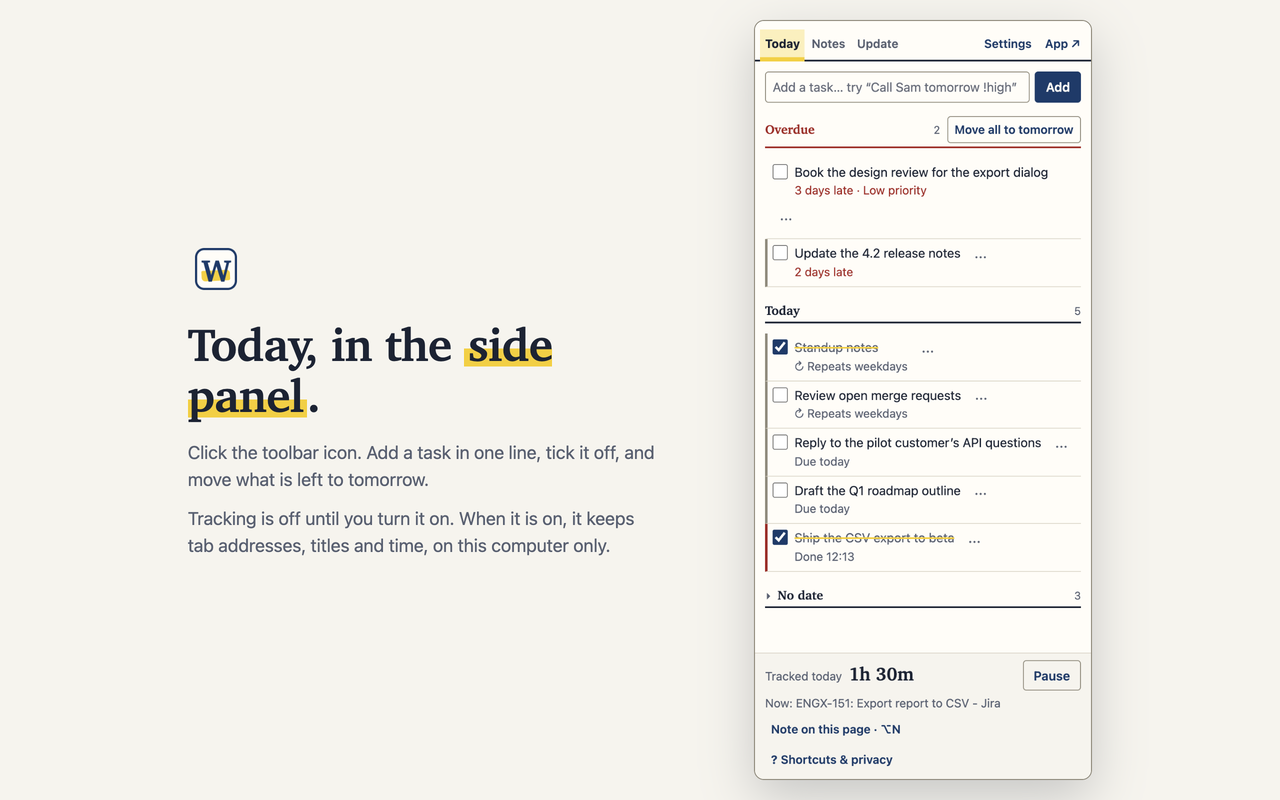
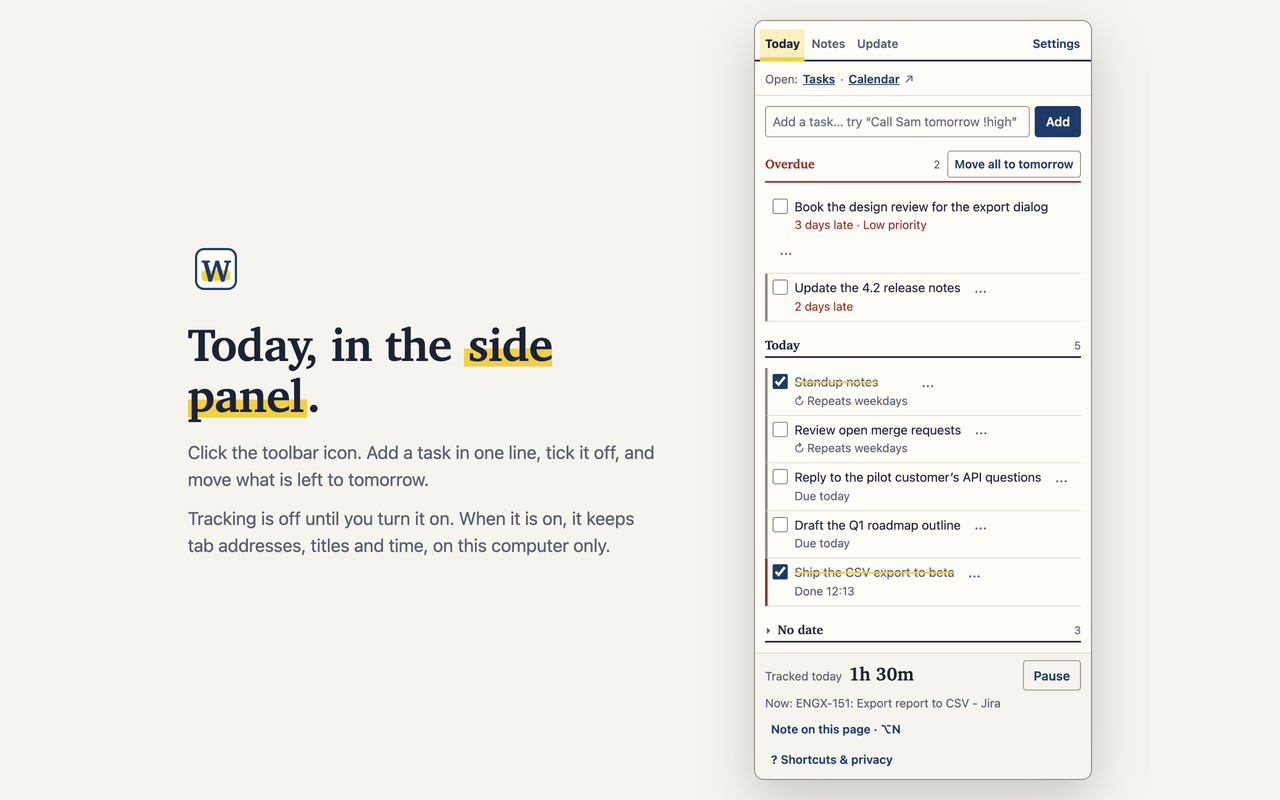
first commit

Changed region(s): [[0.5938, 0.0312, 0.8438, 0.8125]]

diff --git a/store-assets/privacy-policy.html b/store-assets/privacy-policy.html
@@ -24,7 +24,7 @@ a{color:var(--navy)}
 <body><main>
 <p class="kicker">Weekly</p>
 <h1>Privacy <span class="mark">policy</span></h1>
-<p class="meta">Applies to the Weekly Chrome extension, version 3.0.0. Last updated: 1 November 2026.</p>
+<p class="meta">Applies to the Weekly Chrome extension, version 3.0.0. Last updated: 2 November 2026.</p>
 
 <div class="sum"><p><strong>In short:</strong> Weekly keeps your tasks, notes and reminders on your computer. Tracking is off until you turn it on; then Weekly also keeps a log of the address and title of the Chrome tab you are working in, and for how long, for 90 days. We run no servers and receive no data. Anything that leaves your computer does so only because you chose to copy, post, export or look something up.</p></div>
 
@@ -34,8 +34,9 @@ a{color:var(--navy)}
 <li><strong>Notes you write:</strong> title, text, category, and the day a note belongs to, if any.</li>
 <li><strong>Private notes:</strong> if you set a PIN and mark a note private, its title and text are encrypted on your computer before they are stored (its category and the day it belongs to stay readable beside them) (PBKDF2-SHA256 with 310,000 rounds, then AES-GCM). The PIN itself is never stored, only a random salt and a check value. The key exists only in the memory of Weekly's background process. It is dropped when you lock, after 5 minutes without use, or sooner when Chrome stops that process. After 5 wrong PINs Weekly makes you wait, from 30 seconds up to 15 minutes, before the next try.</li>
 <li><strong>Settings:</strong> your role, reminder times and working days, light or dark appearance, sites to ignore, your own rules, and an optional Slack webhook address. Also your saved draft edits, the items you untick, the day each reminder last showed, a random ID that tells exports from different computers apart, and small interface state: which day groups you left open, your answers to the share prompts, and the device IDs of files you imported.</li>
-<li><strong>If you turn tracking on:</strong> the address (URL), page title and time spent for the <strong>active tab of the focused Chrome window</strong>, only while Chrome is in front and you are active, and a per-day count of task switches. Time stops when you go idle (default 2 minutes) or lock your screen.</li>
-<li><strong>If you choose "Fill in from history":</strong> estimated time per page for the last 15 days, built from Chrome's visit history on this computer. History synced from your other devices is skipped.</li>
+<li><strong>If you turn tracking on:</strong> the address (URL), page title and time spent for the <strong>active tab of the focused Chrome window</strong>, only while Chrome is in front and you are active, and a per-day count of task switches. Time stops when you go idle (default 2 minutes) or lock your screen, and if the computer sleeps it stops at the last minute you were active.</li>
+<li><strong>Outside Chrome:</strong> while tracking is on and you are active on your computer but Chrome is not in front (for example in your IDE or the Zoom app), Weekly counts those minutes as one "Outside Chrome" entry per day. Only the number of minutes is stored: Weekly cannot see, and does not record, which app you were using. Turn this off in Settings, under Tracking.</li>
+<li><strong>If you choose "Fill in from history":</strong> estimated time per page for the last 15 days, built from Chrome's visit history on this computer, for time Weekly did not track (days before you installed it, and the hours before tracking began on the day you did). History synced from your other devices is skipped.</li>
 </ul>
 
 <h2>What Weekly never collects</h2>

diff --git a/test/store-assets.test.js b/test/store-assets.test.js
@@ -34,8 +34,8 @@ test('the privacy policy states what Replace, PIN guesses, local storage and the
   assert.doesNotMatch(policy, /Tracked activity, history estimates and activity imported from another computer are deleted/);
 });
 
-test('the privacy policy is dated 1 November 2026, names one contact address and has no em dash', () => {
-  assert.match(policy, /Last updated: 1 November 2026/);
+test('the privacy policy is dated 2 November 2026, names one contact address and has no em dash', () => {
+  assert.match(policy, /Last updated: 2 November 2026/);
   const mails = policy.match(/[\w.+-]+@[\w-]+\.[\w.]+/g) ?? [];
   assert.ok(mails.length > 0 && mails.every((m) => m === 'srewoo@gmail.com'), mails.join());
   assert.doesNotMatch(policy, /—/);

diff --git a/store-assets/store-listing.md b/store-assets/store-listing.md
@@ -151,9 +151,9 @@ Suggested screenshot captions: 1 Tickets and their merge requests, grouped into 
 
 **Before submitting**
 1. `dist/weekly-2.0.0.zip` was a Phase 5 build mislabelled 2.0.0; it is already moved to `snapshots/weekly-3.0-phase5-build-mislabelled-2.0.0.zip`. Upload only `dist/weekly-3.0.0.zip`.
-2. Run the gate when the local time in the chosen timezone is outside 23:30 to 01:30: `TZ=America/New_York npm run release:check`, or `TZ=Asia/Kolkata` otherwise. Expect `# tests 423` and `# fail 0` twice, no `error TS`, `Packed 114 files → dist/weekly-3.0.0.zip`, `End-to-end on dist/weekly-3.0.0.zip (manifest 3.0.0)`, `283/283 passed`, `No tabs: 13/13 passed`, `Parity: 35/35 rows proved (296 end-to-end checks read)`.
+2. Run the gate when the local time in the chosen timezone is outside 23:30 to 01:30: `TZ=America/New_York npm run release:check`, or `TZ=Asia/Kolkata` otherwise. Expect `# tests 453` and `# fail 0` twice, no `error TS`, `Packed 116 files → dist/weekly-3.0.0.zip`, `End-to-end on dist/weekly-3.0.0.zip (manifest 3.0.0)`, `285/285 passed`, `No tabs: 13/13 passed`, `Parity: 35/35 rows proved (298 end-to-end checks read)`. (Last run 2 November 2026: all of these; zip built 17:19.)
 3. Check the zip you will upload: `unzip -p dist/weekly-3.0.0.zip manifest.json | grep -E '"version"|"description"'` must show 3.0.0 and "Your Friday update, drafted for you...". Its time must be later than the last edit under `src/`.
-4. Host the policy first (see the BLOCKER at the top). If you submit after 1 November 2026, change "Last updated" in `store-assets/privacy-policy.html` (line 27) and in `test/store-assets.test.js` (lines 37 and 38) together, then rerun step 2. Host the policy at a public URL.
+4. Host the policy first (see the BLOCKER at the top). If you submit after 2 November 2026, change "Last updated" in `store-assets/privacy-policy.html` (line 27) and in `test/store-assets.test.js` (lines 37 and 38) together, then rerun step 2. Host the policy at a public URL.
 5. Manual checks in real Chrome (Playwright cannot do these):
    - Upgrade from Weekly 2. Use a fresh profile. Load `snapshots/weekly-2.0.0-source-2026-10-31.zip` unpacked (tabs is required there) and browse for 2 to 3 minutes so a `day:` entry exists. Replace that folder's contents with the unzipped 3.0.0 zip and press Reload. Expect: the details page still lists "Read your browsing history"; the side panel footer shows time tracked today and keeps counting; no welcome page opens; reminders stay off unless Weekly 2's Friday reminder was on. If the permission is gone, the welcome page must open once and "Yes, track my week" must restore tracking.
    - Alt+N with tracking off. Fresh profile, answer "No thanks". Alt+N on an https page opens the note panel. The listing no longer promises that the panel opens on `chrome://extensions` or the Web Store. If Alt+N does nothing there, that is a known 3.0.1 item, not a blocker.

diff --git a/store-assets/README.md b/store-assets/README.md
@@ -17,7 +17,7 @@ Everything for the Chrome Web Store submission. See `store-listing.md` for the t
 | `promo-small-440x280.png` | 440x280 | Small promo tile |
 | `promo-marquee-1400x560.png` | 1400x560 | Marquee promo tile |
 | `store-listing.md` | | Name, descriptions, permission justifications, data-usage answers, reviewer instructions |
-| `privacy-policy.html` | | Standalone policy. Host at a public URL (contact: srewoo@gmail.com, dated 1 November 2026) |
+| `privacy-policy.html` | | Standalone policy. Host at a public URL (contact: srewoo@gmail.com, dated 2 November 2026) |
 | `generate.mjs` | | Regenerates all PNGs. Needs Chromium. Run it again after any UI change |
 | `demo-data.mjs` | | The fictional engineer/PM week (tickets, MRs, notes) in the screenshots; anonymize is on for the report shot |
 
